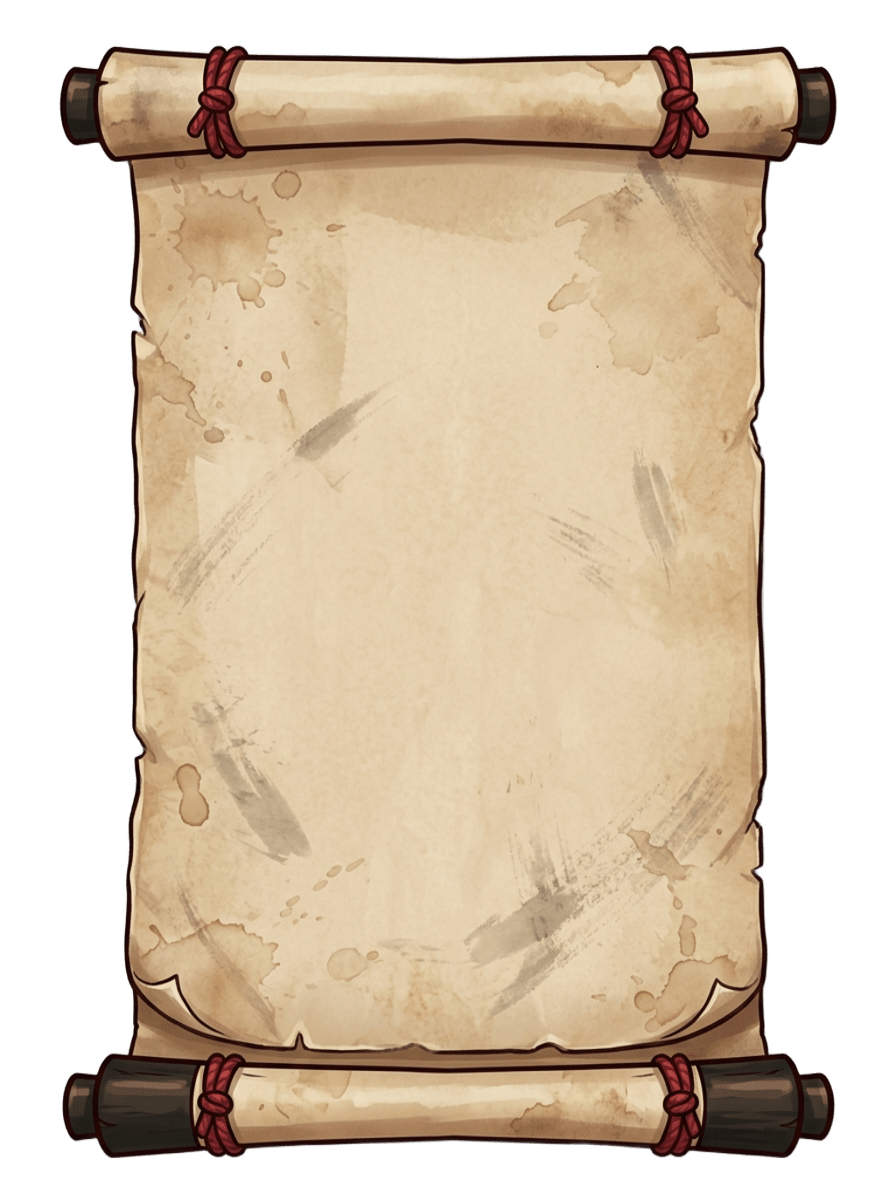
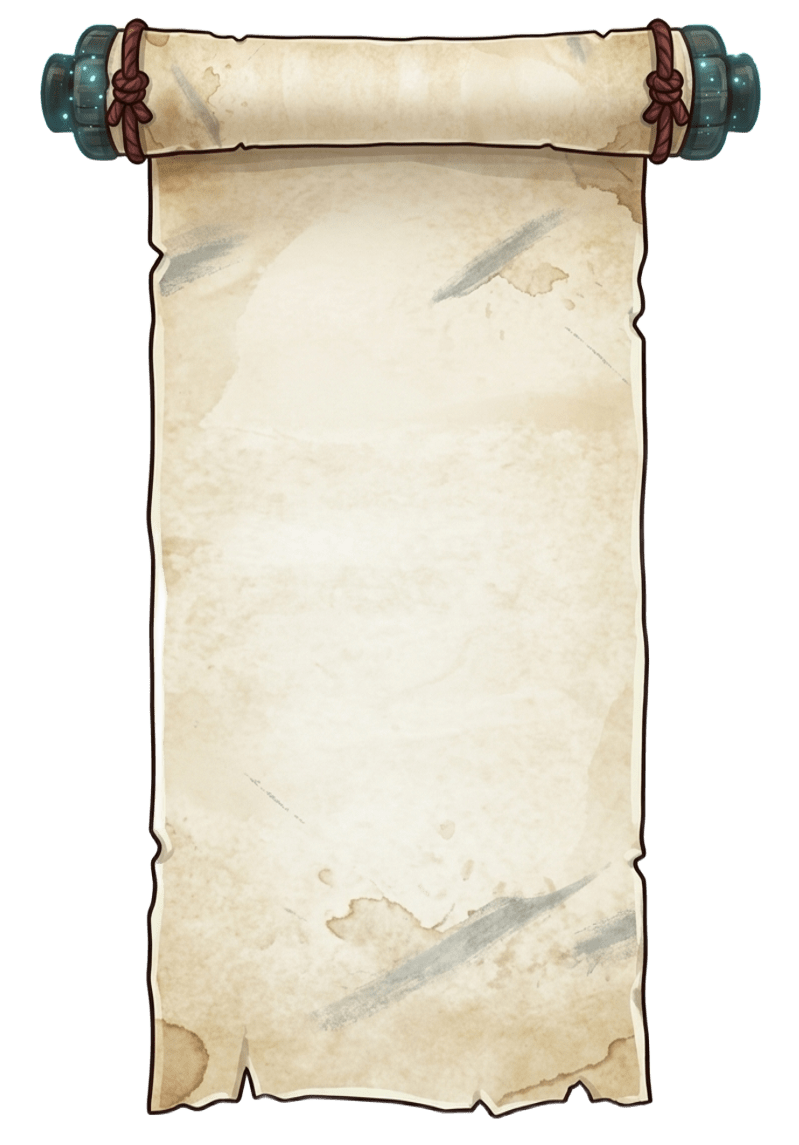
v2-working-on-instructions-screen

diff --git a/scenes/instructions.py b/scenes/instructions.py
@@ -7,6 +7,22 @@ class Instructions(Scene):
     def __init__(self, app):
         super().__init__(app)
 
+        config = {"points_per_pacgum": 10, "points_per_super_pacgum": 50,
+                  "points_per_ghost": 200, "lives": 3}
+
+        self.rules = [
+            ("arrows", "MOVE WITH ARROWS / WASD",
+             "Run through the village maze"),
+            ("gum", "EAT EVERY GUM",
+             f"+{config['points_per_pacgum']} pts - clear them all to win"),
+            ("super", "GRAB A SUPER GUM",
+             f"+{config['points_per_super_pacgum']} pts - rivals become weak"),
+            ("ghost", "HUNT WEAK RIVALS",
+             f"+{config['points_per_ghost']} pts - otherwise, run!"),
+            ("heart", f"YOU HAVE {config['lives']} LIVES",
+             "Touched by a rival = lose one"),
+        ]
+
         self.width, self.height = self.app.window.get_size()
 
         try:
@@ -20,23 +36,92 @@ class Instructions(Scene):
             self.scroll_panel = pygame.image.load(
                 "assets/scroll_panel.png").convert_alpha()
             self.scroll_panel = pygame.transform.smoothscale(
-                self.scroll_panel, (400, 550)
+                self.scroll_panel, (470, 500)
             )
 
             self.panel_w, self.panel_h = self.scroll_panel.get_size()
 
-            self.font = pygame.font.Font(
-                "assets/fonts/Bangers-Regular.ttf", 40)
+            self.back_button = pygame.image.load(
+                "assets/button.png").convert_alpha()
+
+            self.back_button = pygame.transform.smoothscale(
+                self.back_button, (420, 80))
+
+            self.title_font = pygame.font.Font(
+                "assets/fonts/Bangers-Regular.ttf", 10)
+
+            self.big_font = pygame.font.Font(
+                "assets/fonts/Bangers-Regular.ttf", 22)
+
+            self.small_font = pygame.font.Font(
+                "assets/fonts/Bangers-Regular.ttf", 17)
+
+            self.button_font = pygame.font.Font(
+                "assets/fonts/Bangers-Regular.ttf", 36)
 
         except (pygame.error, FileNotFoundError):
             print("Error: could not load menu assets")
             self.app.running = False
 
+        self.icons = {}
+
+        files = {
+            "arrows": "assets/icon_arrows.png",
+            "gum": "assets/gum.png",
+            "super": "assets/supergum.png",
+            "ghost": "assets/ghost.png",
+            "heart": "assets/lives/full_heart.png"
+        }
+
+        for name, path in files.items():
+            try:
+                icon = pygame.image.load(path).convert_alpha()
+                self.icons[name] = pygame.transform.smoothscale(icon, (34, 32))
+            except (pygame.error, FileNotFoundError):
+                pass
+
+        self.back_rect = self.back_button.get_rect(
+            center=(self.width // 2, 635))
+
+    def handle_event(self, event):
+
+        if event.type == pygame.KEYDOWN:
+            if event.key in (pygame.K_ESCAPE, pygame.K_RETURN):
+                self.app.change_scene("menu")
+
+        if event.type == pygame.MOUSEBUTTONDOWN:
+            if self.back_rect.collidepoint(event.pos):
+                self.app.change_scene("menu")
+
     def draw(self, screen):
+
+        center_x = self.width // 2
 
         screen.blit(self.background, (0, 0))
 
         panel_x = self.width // 2 - self.panel_w // 2
-        panel_y = self.height // 6
+        panel_y = 145
 
         screen.blit(self.scroll_panel, (panel_x, panel_y))
+
+        y = panel_y + 95
+        for icon_name, big, small in self.rules:
+
+            if icon_name in self.icons:
+                screen.blit(self.icons[icon_name], (panel_x + 105, y + 6))
+
+            text = self.big_font.render(big, True, (45, 25, 15))
+            screen.blit(text, (panel_x + 145, y))
+
+            text = self.small_font.render(small, True, (110, 70, 40))
+            screen.blit(text, (panel_x + 145, y + 22))
+
+            y += 70
+
+        screen.blit(self.back_button, self.back_rect)
+
+        label = self.button_font.render("BACK", True, (255, 255, 255))
+        screen.blit(label, label.get_rect(center=self.back_rect.center))
+
+        hint = self.small_font.render("ESC or ENTER : BACK TO MENU", True, (255, 255, 255))
+        screen.blit(hint, hint.get_rect(center=(center_x, 775)))

diff --git a/scenes/menu.py b/scenes/menu.py
@@ -33,6 +33,27 @@ class MenuScene(Scene):
             print("Error: could not load menu assets")
             self.app.running = False
 
+        self.button_rects = []
+        y = 400
+        for i in range(4):
+            rect = self.button.get_rect(midtop=(width // 2, y))
+            self.button_rects.append(rect)
+            y += 80
+
+    def choose(self, index):
+
+        target = self.scenes[index]
+        if target == "quit":
+            self.app.running = False
+        else:
+            self.app.change_scene(self.scenes[index])
+
+    def handle_event(self, event):
+        if event.type == pygame.MOUSEBUTTONDOWN:
+            for i in range(4):
+                if self.button_rects[i].collidepoint(event.pos):
+                    self.choose(i)
+
     def draw(self, screen):
 
         screen.blit(self.background, (0, 0))
